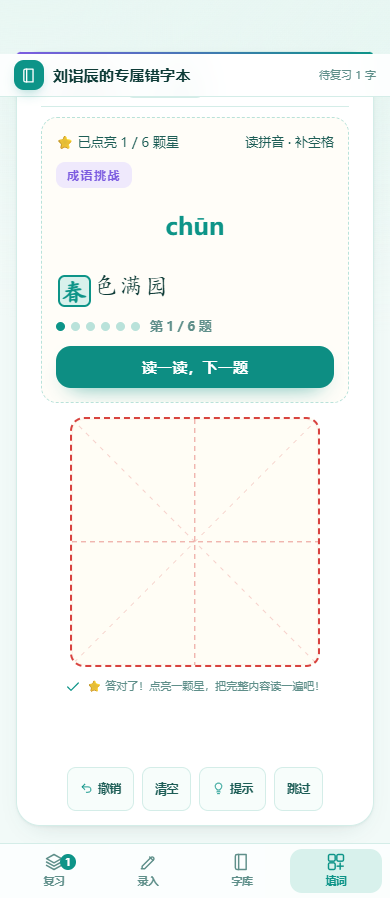
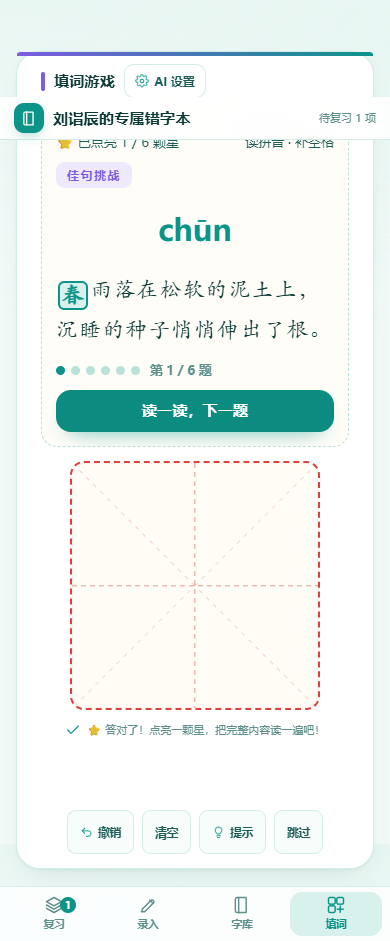
自动上传: 2026-11-21 09:53 更新 13 个文件

diff --git a/index.html b/index.html
@@ -1910,6 +1910,20 @@ textarea::-webkit-input-placeholder{opacity:var(--ph-op,.6);}
 .lib-card.is-word .lc-char{font-size:24px;line-height:1.3;overflow-wrap:anywhere;}
 .lib-card.is-word .lc-py{font-size:11px;}
 #wordType{display:flex;flex-wrap:wrap;gap:10px;}#wordAnswer{min-width:0;flex:1;}
+
+.entry-type-tabs{display:flex;gap:10px;flex:none;margin-bottom:16px;}
+.entry-type-tabs .btn{flex:1;min-width:0;}
+#wordEntryPanel[hidden]{display:none;}
+.word-entry-active .entry-preview,.word-entry-active .entry-form>:not(.word-entry){display:none!important;}
+.word-entry-active .entry-grid{grid-template-columns:minmax(0,1fr);overflow-y:auto;align-items:start;}
+.word-entry-active .entry-form{width:100%;max-width:660px;justify-self:center;justify-content:flex-start;}
+#view-game .gq-text{font-size:clamp(30px,3.2vw,42px);}
+#view-game .gq-text.is-idiom{font-size:clamp(32px,3.6vw,46px);}
+#view-game .gq-text.is-sent{font-size:clamp(22px,2.2vw,28px);line-height:1.85;}
+#view-game .gq-ch-py{font-size:clamp(18px,1.8vw,23px);line-height:1.4;}
+#view-game .gq-chars{gap:10px 12px;}
+#view-game .gq-pinyin{font-size:clamp(30px,3vw,38px);line-height:1.4;}
+@media(max-width:360px){#view-game .gq-chars{gap:10px 8px;}#view-game .gq-text.is-idiom{font-size:30px;}#view-game .gq-ch-py{font-size:17px;}}
 </style>
 </head>
 
@@ -2174,8 +2188,12 @@ textarea::-webkit-input-placeholder{opacity:var(--ph-op,.6);}
         <div class="card entry-card">
           <div class="entry-head">
             <span class="entry-head-mark"></span>
-            <strong>生字录入</strong>
-            <span class="entry-head-sub">整理工作台 · 手写或输入定字</span>
+            <strong id="entryTitle">生字录入</strong>
+            <span class="entry-head-sub" id="entrySubtitle">整理工作台 · 手写或输入定字</span>
+          </div>
+          <div class="entry-type-tabs" role="group" aria-label="录入类型">
+            <button type="button" id="btnEntrySingle" class="btn btn-primary" aria-pressed="true">生字录入</button>
+            <button type="button" id="btnEntryWord" class="btn btn-soft" aria-pressed="false">整词录入</button>
           </div>
           <div class="entry-grid">
 
@@ -2213,13 +2231,12 @@ textarea::-webkit-input-placeholder{opacity:var(--ph-op,.6);}
             </div>
 
             <div class="entry-form">
-              <details class="word-entry">
-                <summary>整词录入</summary>
-                <label class="desc" for="entryWholeWord">输入 2～12 个汉字，保存为独立词卡，复习时逐格默写整个词语。已有单字进度不变。</label>
-                <input id="entryWholeWord" class="input" placeholder="例如：介绍、荷花（一次一个词）" maxlength="12" />
+              <div class="word-entry" id="wordEntryPanel" hidden>
+                <label class="desc" for="entryWholeWord">输入 2～4 个汉字，保存为独立词卡，复习时逐格默写整个词语。已有单字进度不变。</label>
+                <input id="entryWholeWord" class="input" placeholder="例如：介绍、荷花（一次一个词）" maxlength="4" />
                 <input id="entryWordPinyin" class="input" placeholder="词语拼音（可选，可校正多音字）" aria-label="词语拼音" />
                 <button id="btnSaveWholeWord" class="btn btn-soft" type="button">将整词加入错字本</button>
-              </details>
+              </div>
               <div class="field">
                 <div class="row-2 char-row">
                   <input id="entryChar" class="input center char" type="text" maxlength="2"
@@ -10638,7 +10655,7 @@ function clearEntrySentences(){
 
 function saveWholeWord(){
   const word = $('entryWholeWord').value.trim();
-  if(!/^[\u4e00-\u9fa5]{2,12}$/.test(word)){ toast('请输入 2～12 个汉字，一次录入一个词语'); return; }
+  if(!/^[\u4e00-\u9fa5]{2,4}$/.test(word)){ toast('请输入 2～4 个汉字，一次录入一个词语'); return; }
   if(S.words.some(function(w){ return w.char === word; })){ toast('这个词已经在字库中，复习进度已保留'); return; }
   S.words.unshift({char:word,pinyin:($('entryWordPinyin').value.trim() || wordPinyin(word)),words:[],sentence:'',sentences:[],count:0,mastered:false,createdAt:Date.now()});
   save(); renderLib();
@@ -12898,7 +12915,21 @@ function switchTab(tab, focusChar, selectedChars){
    ============================================================ */
 let suppressCardClick = false;
 
+function setEntryType(type){
+  const word=type==='word';
+  $('view-entry').classList.toggle('word-entry-active',word);
+  $('wordEntryPanel').hidden=!word;
+  $('entryTitle').textContent=word?'整词录入':'生字录入';
+  $('entrySubtitle').textContent=word?'2～4 个字 · 保存整词，复习整词':'整理工作台 · 手写或输入定字';
+  ['Single','Word'].forEach(function(name){
+    const on=(name==='Word')===word,btn=$('btnEntry'+name);
+    btn.classList.toggle('btn-primary',on);btn.classList.toggle('btn-soft',!on);btn.setAttribute('aria-pressed',String(on));
+  });
+  if(!word && entryPad) setTimeout(function(){entryPad.resize();},30);
+}
 function bind(){
+  $('btnEntrySingle').onclick=function(){setEntryType('single');};
+  $('btnEntryWord').onclick=function(){setEntryType('word');};
   $('wordHand').onclick=function(){setWordInputMode('hand');};
   $('wordKeyboard').onclick=function(){setWordInputMode('keyboard');};
   $('wordCheck').onclick=checkWholeWord;

diff --git a/world-correct.html b/world-correct.html
@@ -1910,6 +1910,20 @@ textarea::-webkit-input-placeholder{opacity:var(--ph-op,.6);}
 .lib-card.is-word .lc-char{font-size:24px;line-height:1.3;overflow-wrap:anywhere;}
 .lib-card.is-word .lc-py{font-size:11px;}
 #wordType{display:flex;flex-wrap:wrap;gap:10px;}#wordAnswer{min-width:0;flex:1;}
+
+.entry-type-tabs{display:flex;gap:10px;flex:none;margin-bottom:16px;}
+.entry-type-tabs .btn{flex:1;min-width:0;}
+#wordEntryPanel[hidden]{display:none;}
+.word-entry-active .entry-preview,.word-entry-active .entry-form>:not(.word-entry){display:none!important;}
+.word-entry-active .entry-grid{grid-template-columns:minmax(0,1fr);overflow-y:auto;align-items:start;}
+.word-entry-active .entry-form{width:100%;max-width:660px;justify-self:center;justify-content:flex-start;}
+#view-game .gq-text{font-size:clamp(30px,3.2vw,42px);}
+#view-game .gq-text.is-idiom{font-size:clamp(32px,3.6vw,46px);}
+#view-game .gq-text.is-sent{font-size:clamp(22px,2.2vw,28px);line-height:1.85;}
+#view-game .gq-ch-py{font-size:clamp(18px,1.8vw,23px);line-height:1.4;}
+#view-game .gq-chars{gap:10px 12px;}
+#view-game .gq-pinyin{font-size:clamp(30px,3vw,38px);line-height:1.4;}
+@media(max-width:360px){#view-game .gq-chars{gap:10px 8px;}#view-game .gq-text.is-idiom{font-size:30px;}#view-game .gq-ch-py{font-size:17px;}}
 </style>
 </head>
 
@@ -2174,8 +2188,12 @@ textarea::-webkit-input-placeholder{opacity:var(--ph-op,.6);}
         <div class="card entry-card">
           <div class="entry-head">
             <span class="entry-head-mark"></span>
-            <strong>生字录入</strong>
-            <span class="entry-head-sub">整理工作台 · 手写或输入定字</span>
+            <strong id="entryTitle">生字录入</strong>
+            <span class="entry-head-sub" id="entrySubtitle">整理工作台 · 手写或输入定字</span>
+          </div>
+          <div class="entry-type-tabs" role="group" aria-label="录入类型">
+            <button type="button" id="btnEntrySingle" class="btn btn-primary" aria-pressed="true">生字录入</button>
+            <button type="button" id="btnEntryWord" class="btn btn-soft" aria-pressed="false">整词录入</button>
           </div>
           <div class="entry-grid">
 
@@ -2213,13 +2231,12 @@ textarea::-webkit-input-placeholder{opacity:var(--ph-op,.6);}
             </div>
 
             <div class="entry-form">
-              <details class="word-entry">
-                <summary>整词录入</summary>
-                <label class="desc" for="entryWholeWord">输入 2～12 个汉字，保存为独立词卡，复习时逐格默写整个词语。已有单字进度不变。</label>
-                <input id="entryWholeWord" class="input" placeholder="例如：介绍、荷花（一次一个词）" maxlength="12" />
+              <div class="word-entry" id="wordEntryPanel" hidden>
+                <label class="desc" for="entryWholeWord">输入 2～4 个汉字，保存为独立词卡，复习时逐格默写整个词语。已有单字进度不变。</label>
+                <input id="entryWholeWord" class="input" placeholder="例如：介绍、荷花（一次一个词）" maxlength="4" />
                 <input id="entryWordPinyin" class="input" placeholder="词语拼音（可选，可校正多音字）" aria-label="词语拼音" />
                 <button id="btnSaveWholeWord" class="btn btn-soft" type="button">将整词加入错字本</button>
-              </details>
+              </div>
               <div class="field">
                 <div class="row-2 char-row">
                   <input id="entryChar" class="input center char" type="text" maxlength="2"
@@ -10638,7 +10655,7 @@ function clearEntrySentences(){
 
 function saveWholeWord(){
   const word = $('entryWholeWord').value.trim();
-  if(!/^[\u4e00-\u9fa5]{2,12}$/.test(word)){ toast('请输入 2～12 个汉字，一次录入一个词语'); return; }
+  if(!/^[\u4e00-\u9fa5]{2,4}$/.test(word)){ toast('请输入 2～4 个汉字，一次录入一个词语'); return; }
   if(S.words.some(function(w){ return w.char === word; })){ toast('这个词已经在字库中，复习进度已保留'); return; }
   S.words.unshift({char:word,pinyin:($('entryWordPinyin').value.trim() || wordPinyin(word)),words:[],sentence:'',sentences:[],count:0,mastered:false,createdAt:Date.now()});
   save(); renderLib();
@@ -12898,7 +12915,21 @@ function switchTab(tab, focusChar, selectedChars){
    ============================================================ */
 let suppressCardClick = false;
 
+function setEntryType(type){
+  const word=type==='word';
+  $('view-entry').classList.toggle('word-entry-active',word);
+  $('wordEntryPanel').hidden=!word;
+  $('entryTitle').textContent=word?'整词录入':'生字录入';
+  $('entrySubtitle').textContent=word?'2～4 个字 · 保存整词，复习整词':'整理工作台 · 手写或输入定字';
+  ['Single','Word'].forEach(function(name){
+    const on=(name==='Word')===word,btn=$('btnEntry'+name);
+    btn.classList.toggle('btn-primary',on);btn.classList.toggle('btn-soft',!on);btn.setAttribute('aria-pressed',String(on));
+  });
+  if(!word && entryPad) setTimeout(function(){entryPad.resize();},30);
+}
 function bind(){
+  $('btnEntrySingle').onclick=function(){setEntryType('single');};
+  $('btnEntryWord').onclick=function(){setEntryType('word');};
   $('wordHand').onclick=function(){setWordInputMode('hand');};
   $('wordKeyboard').onclick=function(){setWordInputMode('keyboard');};
   $('wordCheck').onclick=checkWholeWord;

diff --git a/sw.js b/sw.js
@@ -5,7 +5,7 @@
    ⚠ 手写识别模型（PP-OCRv5，约 16MB）和 onnxruntime 运行时单独放在 MODEL_CACHE 里，
       不随 VER 变化删除 —— 否则每次 App 更新都要重新下载 16MB。
       只有模型 URL 换版本（如 @0.1.4 → @0.2.0）时，才把 MODEL_VER 加一让它重下。 */
-const VER = 'czb-v15';
+const VER = 'czb-v16';
 const MODEL_CACHE = 'czb-model-v1';   // 跨 App 版本保留
 const KEEP_CACHES = [VER, MODEL_CACHE];
 

diff --git a/README.md b/README.md
@@ -33,7 +33,7 @@ API Key 仅存在当前浏览器本地存储，并直连 DeepSeek，不进入 Gi
 
 ## 整词录入与复习
 
-在录入页展开「整词录入」，输入 2～12 个汉字，可填写拼音校正多音字。词语保存为独立词卡，重复录入保留进度，已有单字不变；旧版本已拆分的词语需要重新按整词录入。
+在录入页点击「整词录入」，输入 2～4 个汉字，可填写拼音校正多音字。词语保存为独立词卡，重复录入保留进度，已有单字不变；旧版本已拆分的词语需要重新按整词录入。
 
 词卡支持字库筛选、跨分类选词组练、备份和云同步。复习默认按顺序逐格手写（长词左右滑动，每格可撤销、清空），对照答案后以整词自评；也可切换键盘输入，完整匹配才记录一次正确。累计写对三次掌握整个词语。答案页可选择词中的字查看笔顺。手写沿用人工自评，不做整词自动识别。
 
